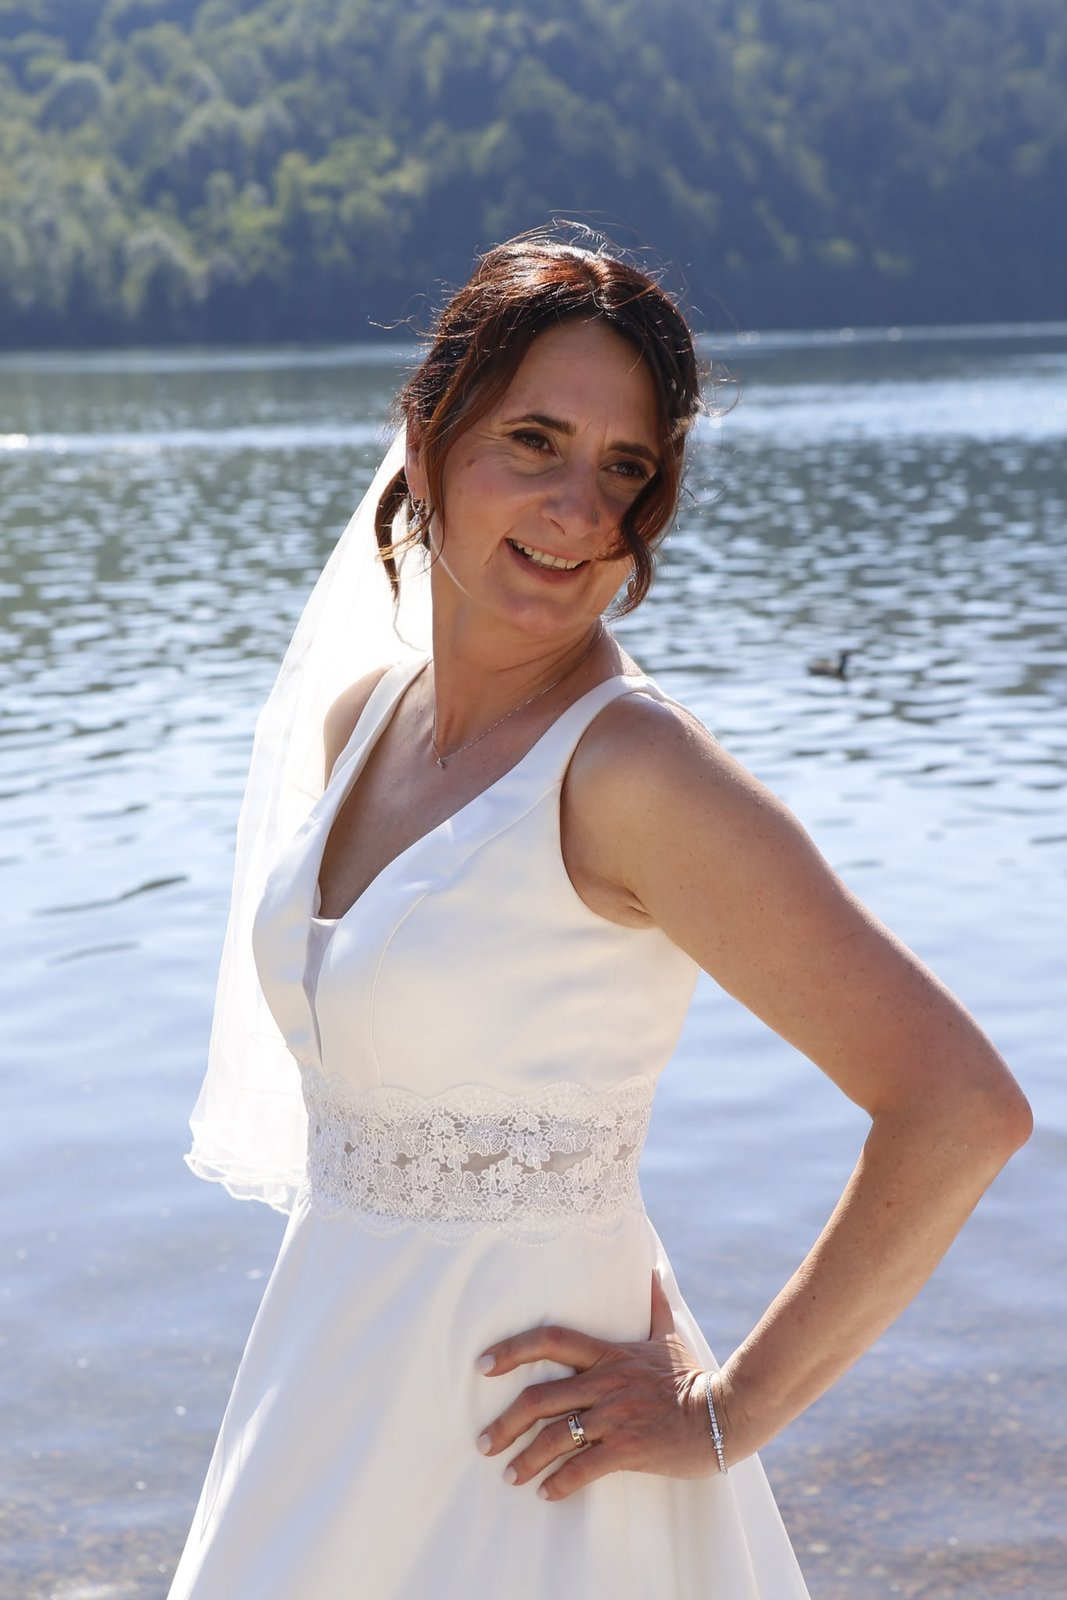
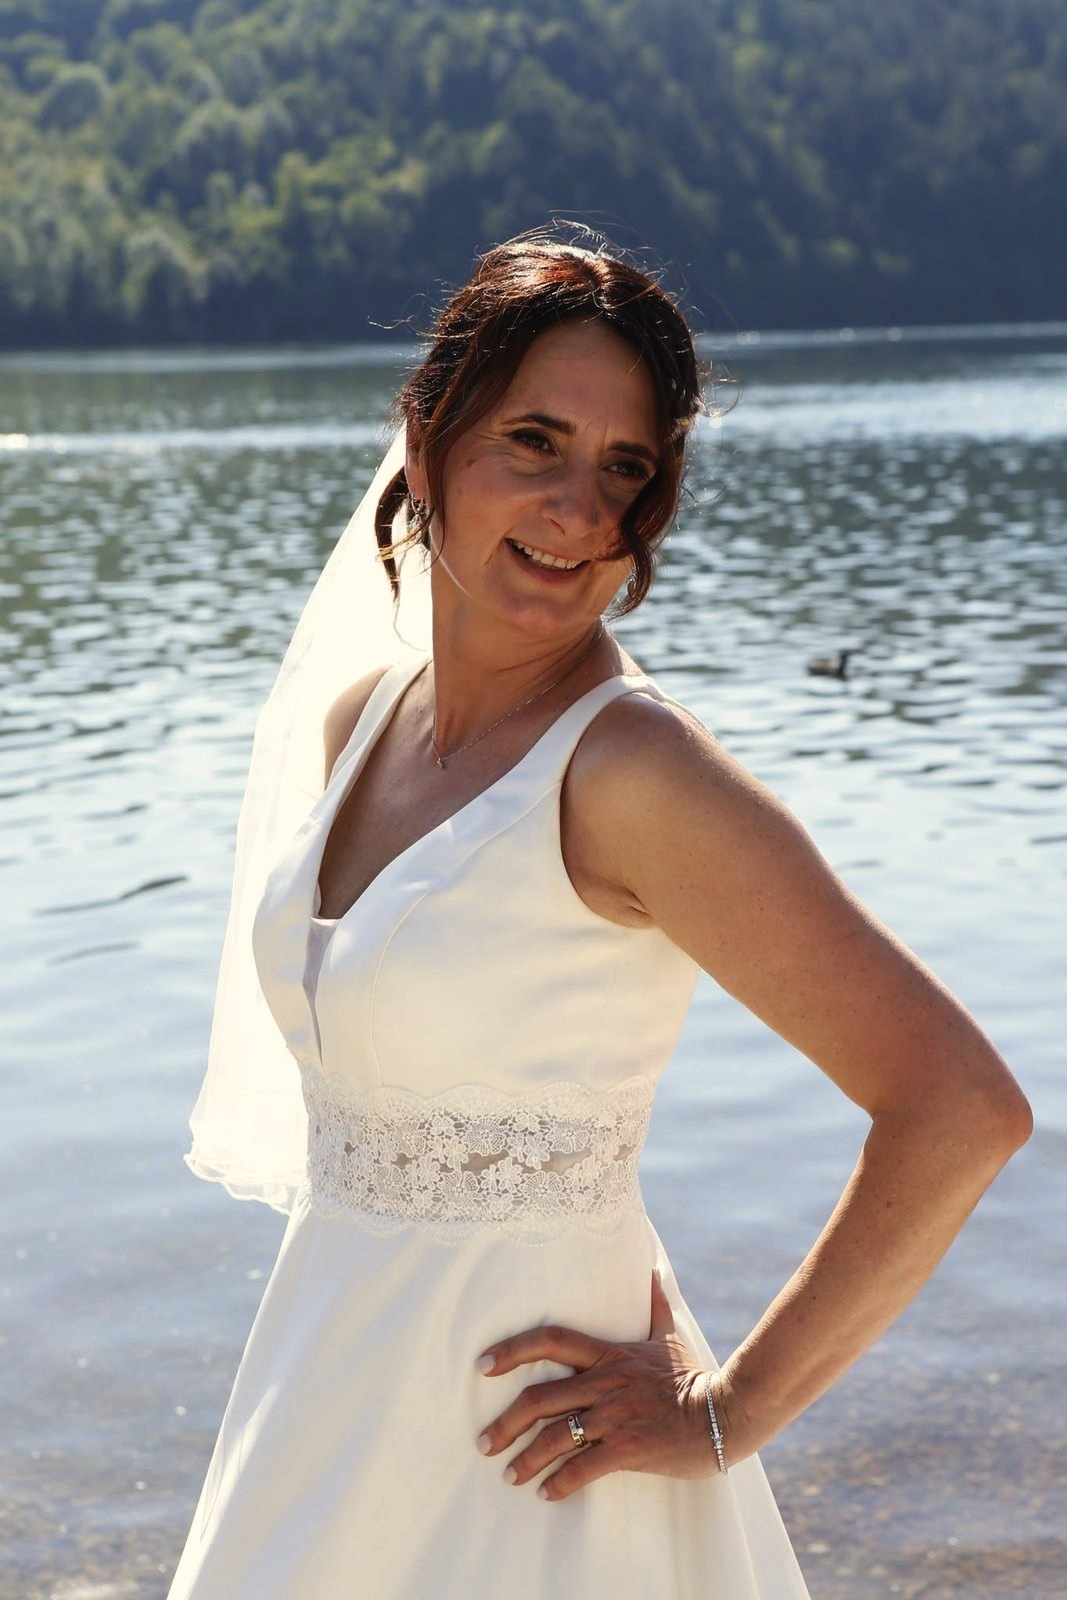
Portfolio: griglia 4:5 con 12 foto e Vedi altre, correzione colore uniforme

diff --git a/src/content.js b/src/content.js
@@ -102,35 +102,35 @@ export const portfolio = {
   title: ['I miei', 'lavori'],
   filters: ['Tutti', 'Sposa', 'Editorial'], // aggiungere 'Eventi' quando ci sono le foto
   items: [
-    { src: p('media/portfolio-sposa-01.jpg'), category: 'Sposa', alt: 'Sposa sorridente sul lago con trucco luminoso e chignon morbido', h: 'aspect-[2/3]' },
-    { src: p('media/portfolio-sposa-02.jpg'), category: 'Sposa', alt: 'Sposa sul lago con abito in tulle e acconciatura raccolta', h: 'aspect-[2/3]' },
-    { src: p('media/portfolio-sposa-03.jpg'), category: 'Sposa', alt: 'Sistemazione del velo su una sposa con chignon', h: 'aspect-[9/16]' },
-    { src: p('media/portfolio-sposa-04.jpg'), category: 'Sposa', alt: 'Ritocco del trucco a una sposa in terrazza con vista sulle montagne', h: 'aspect-video' },
-    { src: p('media/portfolio-editorial-01.jpg'), category: 'Editorial', alt: 'Modella in abito nero nel verde, trucco e capelli curati', h: 'aspect-[2/3]' },
-    { src: p('media/portfolio-editorial-02.jpg'), category: 'Editorial', alt: 'Look vintage anni Cinquanta con foulard a pois, su un’auto d’epoca', h: 'aspect-[3/4]' },
-    { src: p('media/portfolio-sposa-05.jpg'), category: 'Sposa', alt: 'Trucco sposa in preparazione con vestaglia rosa', h: 'aspect-[9/16]' },
-    { src: p('media/portfolio-sposa-06.jpg'), category: 'Sposa', alt: 'Acconciatura con onde morbide laterali e trucco naturale', h: 'aspect-[9/16]' },
-    { src: p('media/portfolio-sposa-07.jpg'), category: 'Sposa', alt: 'Chignon intrecciato per una cerimonia in giardino', h: 'aspect-[4/3]' },
-    { src: p('media/portfolio-editorial-03.jpg'), category: 'Editorial', alt: 'Shooting vintage con foulard e guanti bianchi', h: 'aspect-[3/4]' },
-    { src: p('media/portfolio-editorial-04.jpg'), category: 'Editorial', alt: 'Dietro le quinte di uno shooting: Larisa con la modella', h: 'aspect-[3/4]' },
-    { src: p('media/portfolio-sposa-08.jpg'), category: 'Sposa', alt: 'Trucco con pennello per un abito da cerimonia a fiori blu', h: 'aspect-[3/4]' },
-    { src: p('media/portfolio-sposa-09.jpg'), category: 'Sposa', alt: 'Profilo con onde morbide, pelle luminosa e trucco occhi nei toni caldi', h: 'aspect-[3/4]' },
-    { src: p('media/portfolio-sposa-11.jpg'), category: 'Sposa', alt: 'Ritratto di sposa con chignon morbido e trucco luminoso', h: 'aspect-[3/4]' },
-    { src: p('media/portfolio-sposa-12.jpg'), category: 'Sposa', alt: 'Sposa di profilo con ricci morbidi e sorriso', h: 'aspect-[9/16]' },
-    { src: p('media/portfolio-sposa-13.jpg'), category: 'Sposa', alt: 'Sposa con velo e bouquet su un’auto d’epoca', h: 'aspect-[3/4]' },
-    { src: p('media/portfolio-sposa-14.jpg'), category: 'Sposa', alt: 'Sposa sul lago con velo e abito bianco', h: 'aspect-[2/3]' },
-    { src: p('media/portfolio-sposa-15.jpg'), category: 'Sposa', alt: 'Sposa sorridente con bouquet di fiori', h: 'aspect-[3/4]' },
-    { src: p('media/portfolio-sposa-16.jpg'), category: 'Sposa', alt: 'Sposa in vestaglia bianca dopo il trucco', h: 'aspect-[3/4]' },
-    { src: p('media/portfolio-sposa-17.jpg'), category: 'Sposa', alt: 'Sposa con labbra rosso intenso e onde morbide raccolte di lato', h: 'aspect-[3/4]' },
-    { src: p('media/portfolio-editorial-05.jpg'), category: 'Editorial', alt: 'Ritratto con onde morbide e trucco luminoso in una sala d’epoca', h: 'aspect-[3/4]' },
-    { src: p('media/portfolio-sposa-18.jpg'), category: 'Sposa', alt: 'Sposa con velo, bouquet di rose bianche e trucco naturale', h: 'aspect-[3/4]' },
-    { src: p('media/portfolio-sposa-19.jpg'), category: 'Sposa', alt: 'Trucco naturale e capelli sciolti con onde leggere', h: 'aspect-[9/16]' },
-    { src: p('media/portfolio-sposa-21.jpg'), category: 'Sposa', alt: 'Chignon morbido e trucco fresco prima della cerimonia', h: 'aspect-[3/4]' },
-    { src: p('media/portfolio-sposa-22.jpg'), category: 'Sposa', alt: 'Onde morbide ramate, dettaglio dell’acconciatura di spalle', h: 'aspect-[3/4]' },
-    { src: p('media/portfolio-editorial-06.jpg'), category: 'Editorial', alt: 'Raccolto morbido e spettinato con trucco caldo, di profilo', h: 'aspect-[3/4]' },
-    { src: p('media/portfolio-sposa-20.jpg'), category: 'Sposa', alt: 'Capelli lunghi scuri con onde e trucco occhi definito', h: 'aspect-[9/16]' },
-    { src: p('media/portfolio-sposa-23.jpg'), category: 'Sposa', alt: 'Coda alta lucida e trucco occhi con eyeliner', h: 'aspect-[9/16]' },
-    { src: p('media/portfolio-sposa-24.jpg'), category: 'Sposa', alt: 'Sposa con chignon basso liscio e labbra rosse', h: 'aspect-[9/16]' },
+    { src: p('media/portfolio-sposa-01.jpg'), category: 'Sposa', alt: 'Sposa sorridente sul lago con trucco luminoso e chignon morbido' },
+    { src: p('media/portfolio-sposa-17.jpg'), category: 'Sposa', alt: 'Sposa con labbra rosso intenso e onde morbide raccolte di lato' },
+    { src: p('media/portfolio-editorial-02.jpg'), category: 'Editorial', alt: 'Look vintage anni Cinquanta con foulard a pois, su un’auto d’epoca' },
+    { src: p('media/portfolio-sposa-11.jpg'), category: 'Sposa', alt: 'Ritratto di sposa con chignon morbido e trucco luminoso' },
+    { src: p('media/portfolio-sposa-18.jpg'), category: 'Sposa', alt: 'Sposa con velo, bouquet di rose bianche e trucco naturale' },
+    { src: p('media/portfolio-editorial-03.jpg'), category: 'Editorial', alt: 'Shooting vintage con foulard e guanti bianchi' },
+    { src: p('media/portfolio-sposa-13.jpg'), category: 'Sposa', alt: 'Sposa con velo e bouquet su un’auto d’epoca' },
+    { src: p('media/portfolio-sposa-12.jpg'), category: 'Sposa', alt: 'Sposa di profilo con ricci morbidi e sorriso' },
+    { src: p('media/portfolio-editorial-05.jpg'), category: 'Editorial', alt: 'Ritratto con onde morbide e trucco luminoso in una sala d’epoca' },
+    { src: p('media/portfolio-sposa-02.jpg'), category: 'Sposa', alt: 'Sposa sul lago con abito in tulle e acconciatura raccolta' },
+    { src: p('media/portfolio-sposa-14.jpg'), category: 'Sposa', alt: 'Sposa sul lago con velo e abito bianco' },
+    { src: p('media/portfolio-editorial-01.jpg'), category: 'Editorial', alt: 'Modella in abito nero nel verde, trucco e capelli curati' },
+    { src: p('media/portfolio-sposa-15.jpg'), category: 'Sposa', alt: 'Sposa sorridente con bouquet di fiori' },
+    { src: p('media/portfolio-sposa-16.jpg'), category: 'Sposa', alt: 'Sposa in vestaglia bianca dopo il trucco' },
+    { src: p('media/portfolio-editorial-06.jpg'), category: 'Editorial', alt: 'Raccolto morbido e spettinato con trucco caldo, di profilo' },
+    { src: p('media/portfolio-sposa-19.jpg'), category: 'Sposa', alt: 'Trucco naturale e capelli sciolti con onde leggere' },
+    { src: p('media/portfolio-sposa-21.jpg'), category: 'Sposa', alt: 'Chignon morbido e trucco fresco prima della cerimonia' },
+    { src: p('media/portfolio-sposa-22.jpg'), category: 'Sposa', alt: 'Onde morbide ramate, dettaglio dell’acconciatura di spalle' },
+    { src: p('media/portfolio-sposa-20.jpg'), category: 'Sposa', alt: 'Capelli lunghi scuri con onde e trucco occhi definito' },
+    { src: p('media/portfolio-sposa-06.jpg'), category: 'Sposa', alt: 'Acconciatura con onde morbide laterali e trucco naturale' },
+    { src: p('media/portfolio-editorial-04.jpg'), category: 'Editorial', alt: 'Dietro le quinte di uno shooting: Larisa con la modella' },
+    { src: p('media/portfolio-sposa-08.jpg'), category: 'Sposa', alt: 'Trucco con pennello per un abito da cerimonia a fiori blu' },
+    { src: p('media/portfolio-sposa-09.jpg'), category: 'Sposa', alt: 'Profilo con onde morbide, pelle luminosa e trucco occhi nei toni caldi' },
+    { src: p('media/portfolio-sposa-05.jpg'), category: 'Sposa', alt: 'Trucco sposa in preparazione con vestaglia rosa' },
+    { src: p('media/portfolio-sposa-03.jpg'), category: 'Sposa', alt: 'Sistemazione del velo su una sposa con chignon' },
+    { src: p('media/portfolio-sposa-07.jpg'), category: 'Sposa', alt: 'Chignon intrecciato per una cerimonia in giardino' },
+    { src: p('media/portfolio-sposa-04.jpg'), category: 'Sposa', alt: 'Ritocco del trucco a una sposa in terrazza con vista sulle montagne' },
+    { src: p('media/portfolio-sposa-23.jpg'), category: 'Sposa', alt: 'Coda alta lucida e trucco occhi con eyeliner' },
+    { src: p('media/portfolio-sposa-24.jpg'), category: 'Sposa', alt: 'Sposa con chignon basso liscio e labbra rosse' },
   ],
 }
 

diff --git a/src/components/Portfolio.jsx b/src/components/Portfolio.jsx
@@ -4,11 +4,15 @@ import { portfolio } from '../content'
 import Media from './Media'
 import Reveal, { Heading } from './Reveal'
 
+const PAGE = 12 // foto mostrate all'inizio e a ogni "Vedi altre foto"
+
 export default function Portfolio() {
   const [filter, setFilter] = useState('Tutti')
   const [current, setCurrent] = useState(null)
+  const [shown, setShown] = useState(PAGE)
 
   const items = portfolio.items.filter((p) => filter === 'Tutti' || p.category === filter)
+  const visible = items.slice(0, shown)
 
   const close = useCallback(() => setCurrent(null), [])
   const step = useCallback(
@@ -45,7 +49,7 @@ export default function Portfolio() {
               key={f}
               role="tab"
               aria-selected={filter === f}
-              onClick={() => { setFilter(f); setCurrent(null) }}
+              onClick={() => { setFilter(f); setCurrent(null); setShown(PAGE) }}
               className={`rounded-full border px-5 py-2 text-sm transition ${
                 filter === f ? 'border-rose bg-rose text-ink' : 'border-cream/25 hover:border-rose hover:text-rose'
               }`}
@@ -55,9 +59,9 @@ export default function Portfolio() {
           ))}
         </div>
 
-        <motion.div layout className="mt-10 columns-1 gap-4 sm:columns-2 lg:columns-3">
+        <motion.div layout className="mt-10 grid grid-cols-2 gap-3 md:grid-cols-3 md:gap-4">
           <AnimatePresence mode="popLayout">
-            {items.map((p, i) => (
+            {visible.map((p, i) => (
               <motion.button
                 layout
                 key={p.src}
@@ -66,14 +70,25 @@ export default function Portfolio() {
                 exit={{ opacity: 0, scale: 0.95 }}
                 transition={{ duration: 0.4 }}
                 onClick={() => setCurrent(i)}
-                className="grain group mb-4 block w-full overflow-hidden rounded-2xl"
+                className="grain group block w-full overflow-hidden rounded-2xl"
                 aria-label={`Apri: ${p.alt}`}
               >
-                <Media src={p.src} alt={p.alt} className={`w-full ${p.h}`} imgClassName="transition duration-700 group-hover:scale-105" />
+                <Media src={p.src} alt={p.alt} className="aspect-[4/5] w-full" imgClassName="object-[50%_22%] transition duration-700 group-hover:scale-105" />
               </motion.button>
             ))}
           </AnimatePresence>
         </motion.div>
+
+        {items.length > PAGE && (
+          <div className="mt-10 flex flex-col items-center gap-3">
+            <p className="text-sm text-cream/60">{visible.length} di {items.length} foto</p>
+            {visible.length < items.length ? (
+              <button type="button" onClick={() => setShown((n) => n + PAGE)} className="btn btn-outline">Vedi altre foto</button>
+            ) : (
+              <button type="button" onClick={() => setShown(PAGE)} className="btn btn-outline">Mostra meno</button>
+            )}
+          </div>
+        )}
       </div>
 
       <AnimatePresence>
